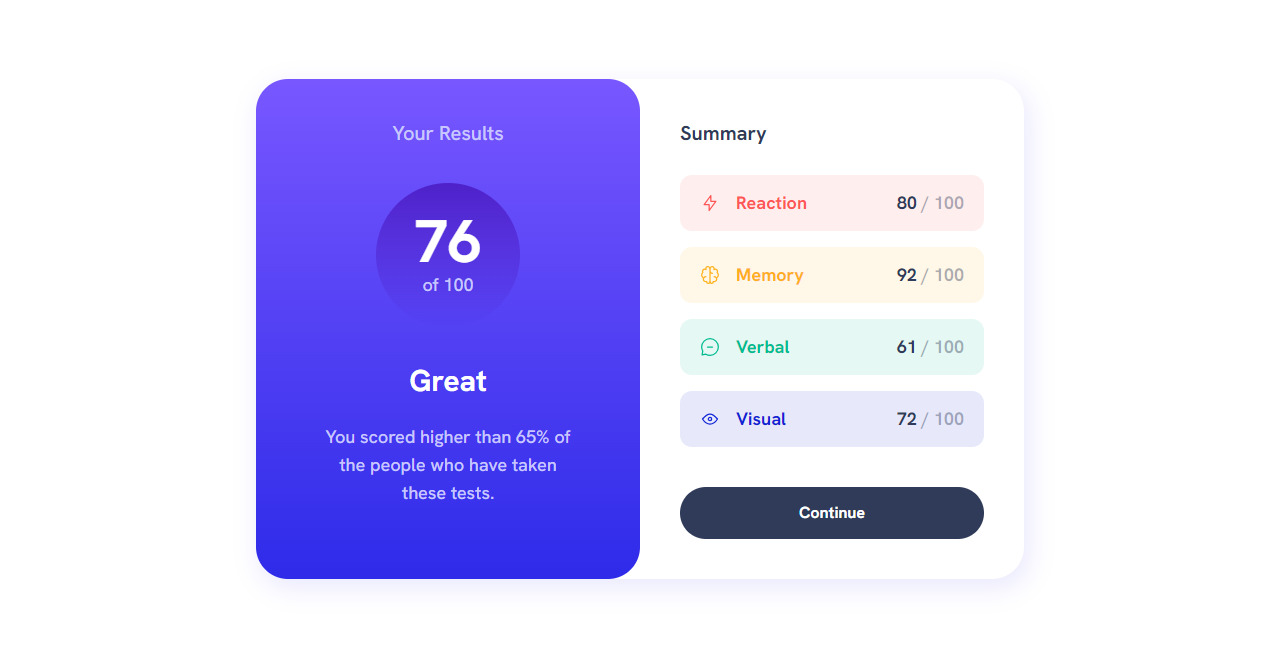
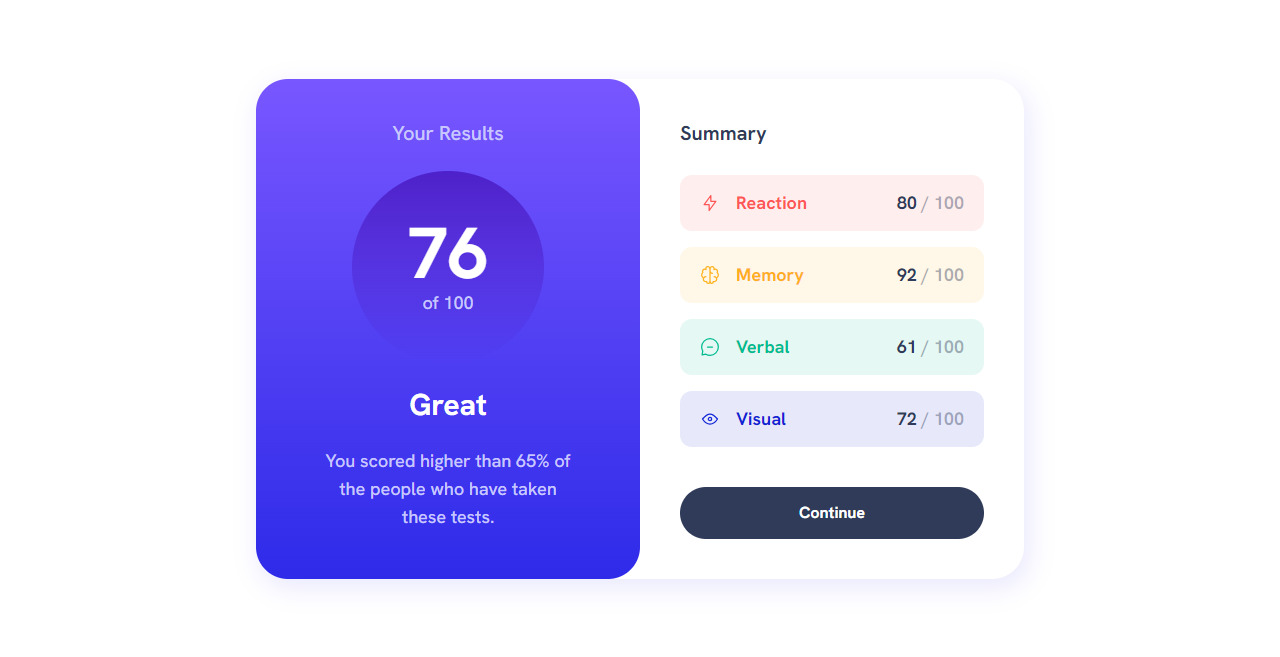
feat: new screenshot and changes result component

Changed region(s): [[0.25, 0.5479, 0.4375, 0.8219], [0.25, 0.2435, 0.4375, 0.4871]]

diff --git a/src/components/Results.tsx b/src/components/Results.tsx
@@ -4,7 +4,8 @@ export function Results() {
       <div className="w-full max-w-xs mx-auto pt-7 pb-10 sm:max-w-[250px] sm:py-10">
         <h2>Your Results</h2>
         <p className="w-36 h-36 bg-gradient-to-b from-violet-blue to-persian-blue rounded-full mx-auto my-6 flex flex-col justify-center sm:w-48 sm:h-48">
-          <span className="text-white text-6xl font-bold">76</span> of 100
+          <span className="text-white text-6xl font-bold sm:text-7xl">76</span>{" "}
+          of 100
         </p>
         <h3 className="text-white text-3xl font-bold mb-4 sm:mb-6">Great</h3>
         <p>
